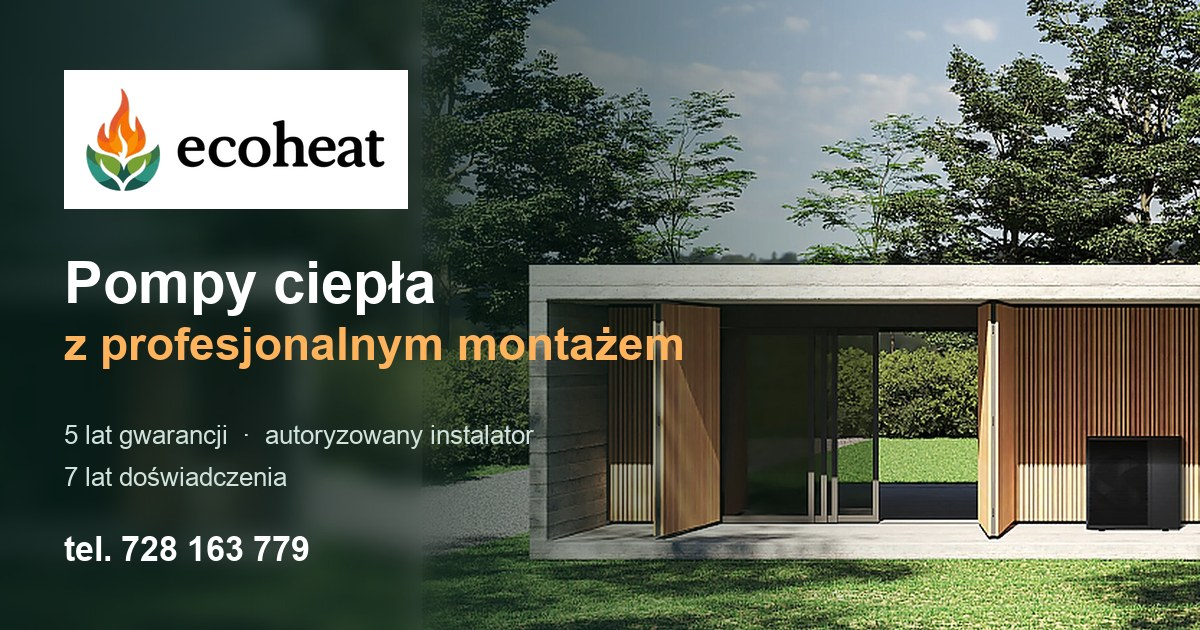
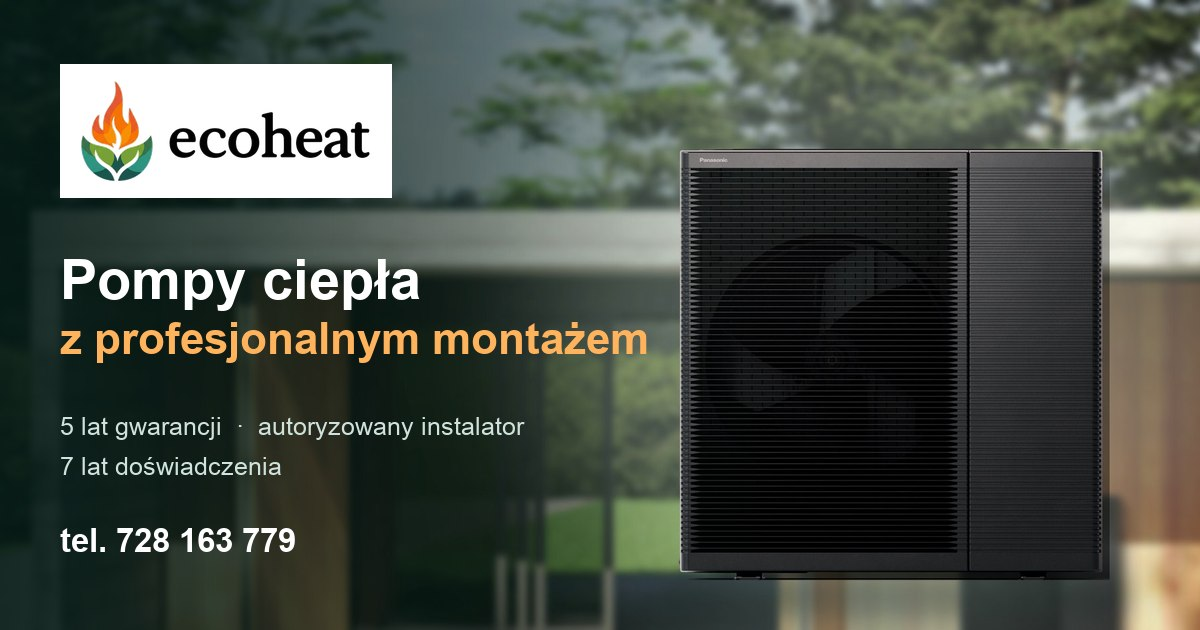
Ostrzejszy baner: wyciety render jednostki Aquarea Gen L na rozmytym tle + nowy OG

diff --git a/index.html b/index.html
@@ -255,7 +255,7 @@
   @media(max-width:680px){
     section{padding:60px 18px}
     .hero-inner{padding:56px 18px 62px;min-height:auto}
-    .hero-bg img{object-position:center 62%}
+    .hero-bg img{object-position:center bottom}
     .hero::after{background:linear-gradient(180deg,rgba(6,26,22,.92) 0%,rgba(6,26,22,.80) 42%,rgba(6,26,22,.55) 72%,rgba(6,26,22,.35) 100%)}
     .hero .sub{max-width:none}
     .trust .wrap{grid-template-columns:repeat(2,1fr);gap:22px}

diff --git a/README.md b/README.md
@@ -21,13 +21,21 @@ Zastępuje starą stronę na Google Sites (ecoheatab.pl).
 - bez hostingu → GitHub Pages
 
 ## Baner na stronie głównej
-`assets/hero-banner.jpg` (+ wersja mobilna) zbudowany z **oficjalnej wizualizacji marketingowej Panasonic Aquarea**
-(źródło: cdn.aircon.panasonic.eu, materiały prasowe serii Aquarea L). Tło rozszerzone w lewo pod tekst.
+`assets/hero-banner.jpg` (2200×940) i `assets/hero-banner-mobile.jpg` (800×2050) — złożone z dwóch
+**oficjalnych materiałów Panasonic** (cdn.aircon.panasonic.eu, kampania Aquarea L):
+- **pierwszy plan:** ostry render jednostki zewnętrznej Aquarea Gen L z kanału alfa
+  (`01-Aquarea-L-Banner.png`, 1260×1040, PNG z przezroczystością — wycięty sam agregat, bez plakietek nagród),
+- **tło:** wizualizacja domu z `05-Aquarea-L.jpg`, rozmyta (efekt głębi ostrości) i przyciemniona pod tekst.
 
-⚠ To materiał chroniony prawem autorskim Panasonic. Autoryzowani instalatorzy zwykle mogą korzystać
-z materiałów marketingowych producenta — **klient powinien to potwierdzić u swojego dystrybutora Panasonic**.
-Alternatywa: własne zdjęcie realizacji w wysokiej rozdzielczości (wtedy podmieniamy plik).
-Na darmowych stockach (Pexels/Unsplash/Pixabay) nie ma zdjęcia pompy bez logo konkurencji (alpha innotec).
+Dzięki temu to, na co patrzy oko (urządzenie), jest w pełnej ostrości, a niska rozdzielczość
+źródłowej wizualizacji tła jest niewidoczna. Logo „Panasonic" na obudowie jest w tej skali nieczytelne,
+więc pierwszy ekran pozostaje bez nazwy marki.
+
+⚠ To materiały chronione prawem autorskim Panasonic. Autoryzowani instalatorzy zwykle mogą korzystać
+z materiałów marketingowych producenta — **klient powinien to potwierdzić u swojego dystrybutora Panasonic**
+(wyższa rozdzielczość jest dostępna po zalogowaniu w Panasonic PRO Club).
+Alternatywa: własne zdjęcie realizacji w wysokiej rozdzielczości — wtedy podmieniamy plik.
+Na darmowych stockach (Pexels/Unsplash/Pixabay) nie ma zdjęcia pompy ciepła bez logo konkurencji (alpha innotec).
 
 ## Do uzupełnienia od klienta
 - lepszej jakości zdjęcia realizacji (obecne pobrane z FB, max ~800 px)
